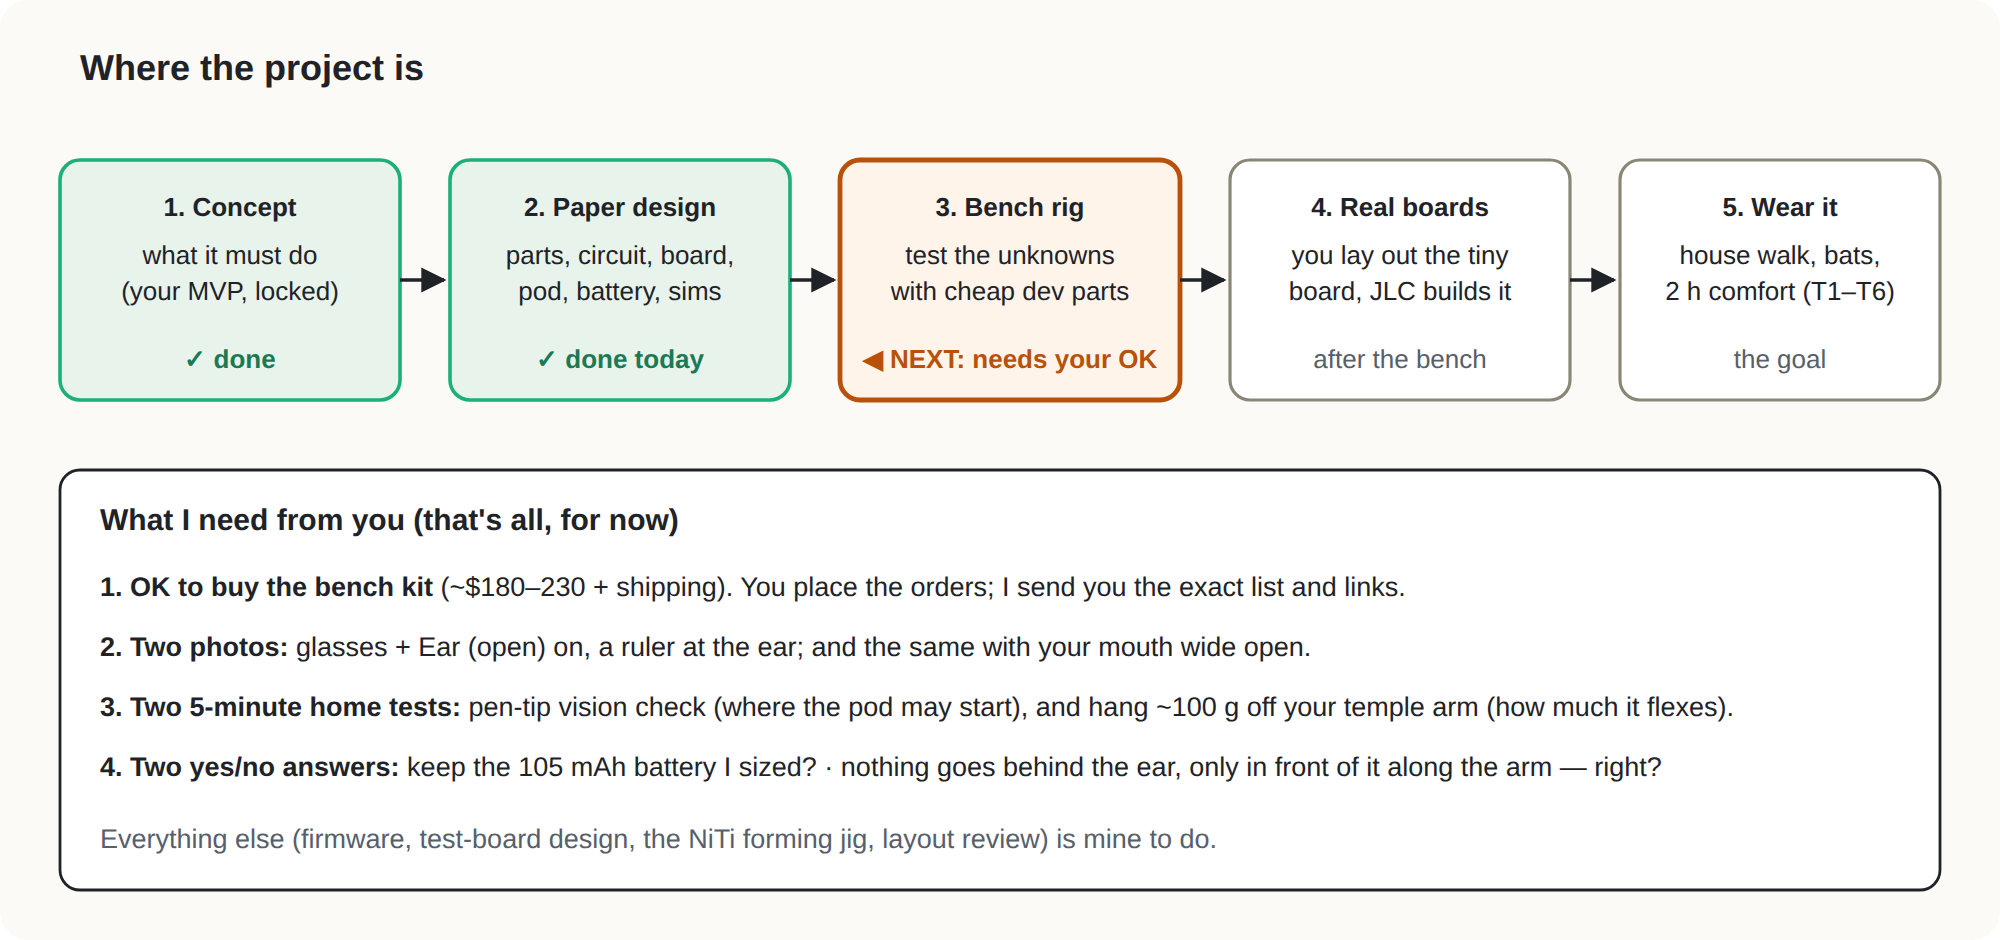
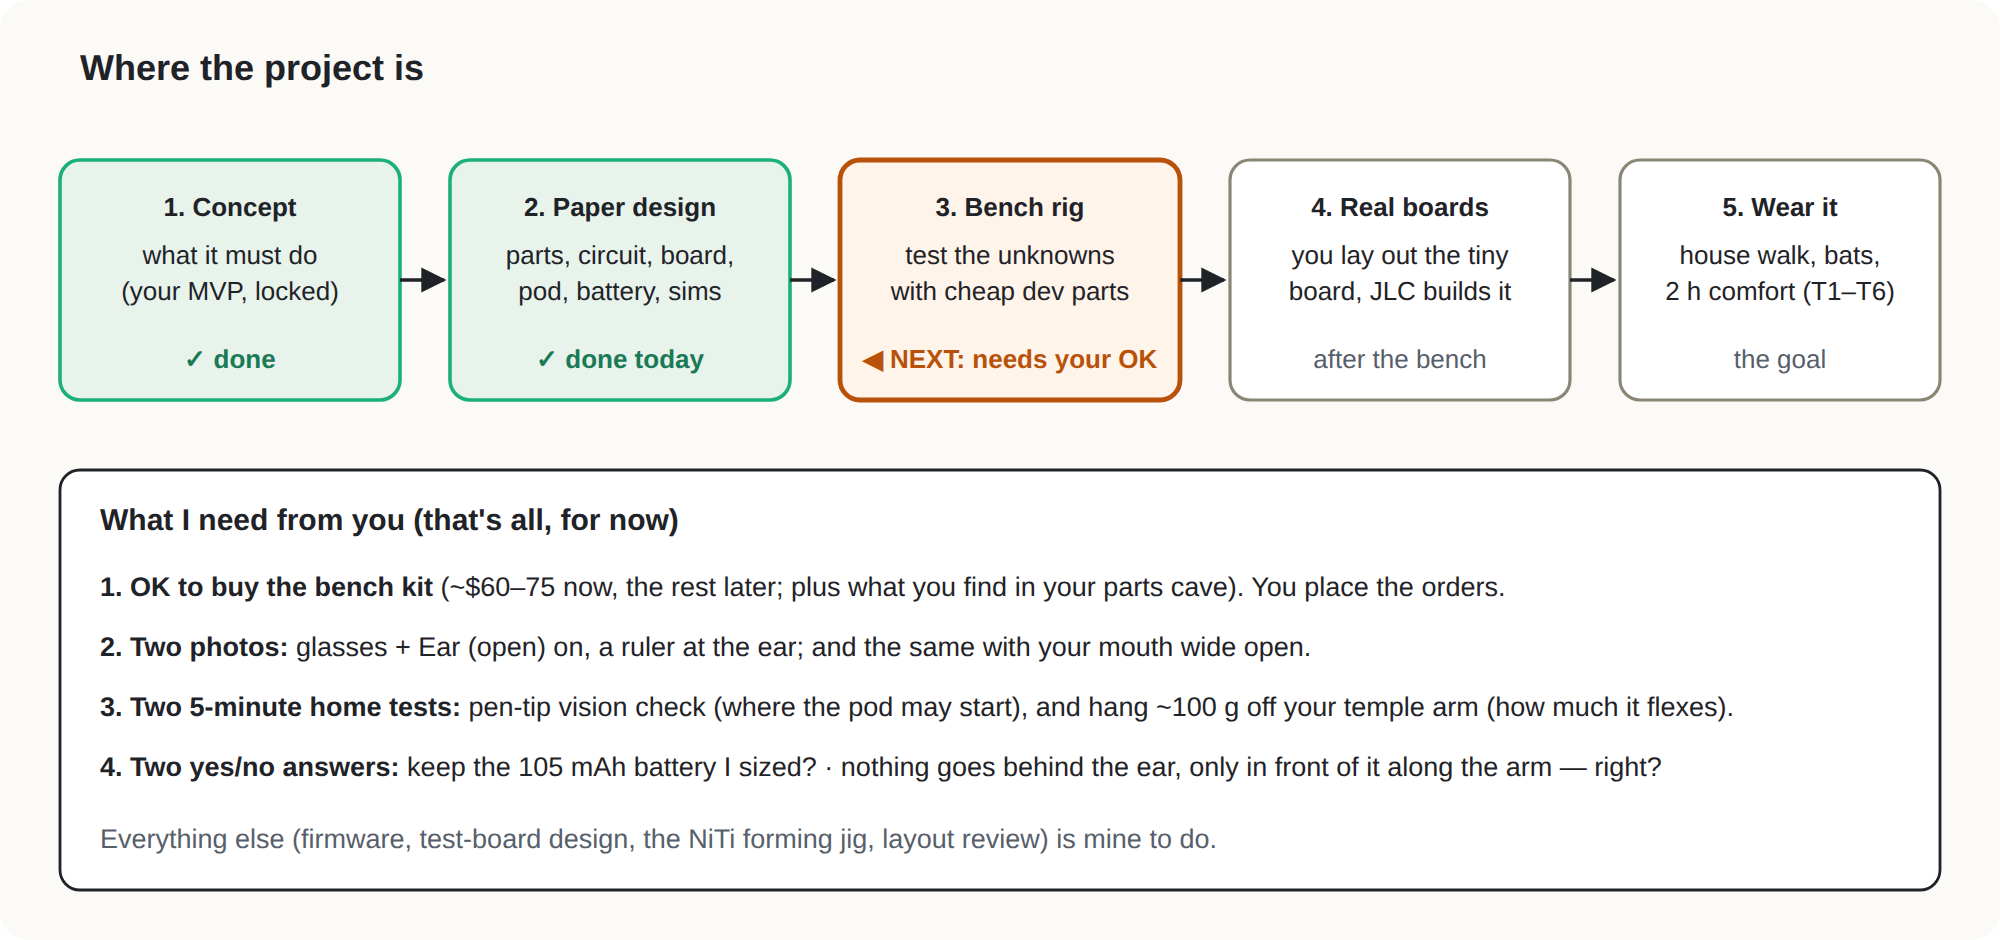
Bench kit restructured: stage A ~$60-75 (exact parts only), owner's parts cave checklist, stage B later
Claude-Session: https://claude.ai/code/session_016uLR3rVesNK6FmgR7vwByF

Changed region(s): [[0.217, 0.617, 0.744, 0.6479]]

diff --git a/docs/design-review-v1.md b/docs/design-review-v1.md
@@ -111,20 +111,32 @@ All the test sounds are synthetic. Real recordings replace them in Phase 1 (C1, 
 
 1. **O7:** spring A (recommended) or B.
 2. **O5:** keep the 105 mAh stacked pod (recommended; 80 mAh would miss 12 h if the chain never sleeps).
-3. **O3: approve the bench shopping list.** Prices come from search results on 2026-09-30 `[Med]`; re-check at checkout.
+3. **O3: approve the bench shopping list.** Revised 2026-09-30 so the owner's own parts come first and the rest is split into stages. Prices come from search results on 2026-09-30 `[Med]`; re-check at checkout.
 
-   | Qty | Item | What it's for | Each | Where |
-   |---|---|---|---|---|
-   | 2 | NUCLEO-U575ZI-Q | ST dev board with our exact MCU and its SMPS: firmware, S1–S3, the E11 whine test | ~$24.08 | [DigiKey](https://www.digikey.com/en/products/detail/stmicroelectronics/nucleo-u575zi-q/15218436) (519 in stock) · [Mouser](https://gr.mouser.com/en/new/stmicroelectronics/stm-nucleo-u575zi-q-board/) |
-   | 3 | RC-BC02 bone exciter, from two sellers | The transducer we designed around; E1 measures its real size, resistance and inductance | ~$4–5.50 | [maker](http://www.digitalaudioamp.com/product/bonetransducerRC-BC02-1.html) · [Alibaba](https://www.alibaba.com/product-detail/RC-BC02-thin-bone-conduction-transducer_62023855763.html) |
-   | 1 | Dayton BCE-1 bone exciter | Known-good reference to compare loudness against | $11.19 | [Dayton](https://www.daytonaudio.com/product/1170/bce-1-22-x-14mm-bone-conducting-exciter) / Parts Express |
-   | 2 | Elecrow SPH0641 mic board | The ultrasonic mic on a breakout, for S1 before our own boards exist | $12.50 | (spec §10) |
-   | 2 | Adafruit #1570 100 mAh LiPo | Bench battery, about our size | $5.95 | [Adafruit](https://www.adafruit.com/product/1570) |
-   | 1 | JLC order: 5 bridge test boards + 5 mic port coupons | S1, S2 | ~$40–60 est. | I design it; you order it |
-   | 2 | HC-SR04 ultrasonic rangefinder | A known 40 kHz test sound, and the T3 left/right test source | ~$2 | any electronics shop |
-   | 1 m each | Superelastic NiTi wire, Ø0.8 and Ø0.9 mm | The tragus arm you chose (O7) | ~$8–15 per metre `[Low]` | medical/hobby wire suppliers; I'll pick listings |
+   **Stage A: buy now (~$60–75).** These are exact parts; nothing in a parts bin substitutes for them.
 
-   **Total ≈ $180–230** plus shipping. Shaping NiTi needs ~500 °C: a butane torch (~$20) is enough if you don't have one. The transducers ship slowest, so they go first.
+   | Qty | Item | Why it must be this part | Each |
+   |---|---|---|---|
+   | 1 | NUCLEO-U575ZI-Q | Our exact chip with its switching regulator: the whine test (E11) and the mic filter need it | ~$24 |
+   | 3 | RC-BC02 bone exciter (two sellers) | The transducer we designed around; its loudness and electrical data are unpublished | ~$4–5.50 |
+   | 1 | Elecrow SPH0641 mic board | The ultrasonic mic; hobby mics stop at ~20 kHz | $12.50 |
+   | 1 m | Superelastic NiTi wire, Ø0.85 mm, Af ≤ 0 °C | Your arm choice | ~$8–15 `[Low]` |
+
+   **From your cave (free if found):**
+
+   | Look for | Replaces | Notes |
+   |---|---|---|
+   | Any small single-cell LiPo + a USB LiPo charger module (e.g. TP4056) | Adafruit cells ($12) | Skip any cell that's puffy or dented |
+   | HC-SR04 sensor, a 40 kHz ultrasonic transducer, an ultrasonic pest repeller, or a dog whistle | HC-SR04 ($4) | Anything that makes ultrasound on demand |
+   | Old bone-conduction headphones (e.g. AfterShokz/Shokz) | Dayton BCE-1 reference ($11) | We only need a known-good exciter to compare loudness against |
+   | A small audio amp module (PAM8403 class-D, any headphone amp) | The JLC bridge board, for now ($40–60) | Enough to measure loudness on your skin (E1). The real bridge only matters later, for noise and distortion (S2) |
+   | Multimeter, soldering iron, jumper wires, breadboard | – | Needed regardless |
+   | **An oscilloscope** (≥ 50 MHz), if you have one | – | Checks the mic clock (S1). Without one I'll find another way |
+   | Kitchen scale, butane torch | – | Pad force; NiTi shaping |
+
+   **Stage B: later, only once stage A has answered loudness and whine (~$60–90):** a second Nucleo and mic for stereo, and the JLC bridge-and-coupon order. The JLC order can ride along with the first real-board order, so it costs one shipping, not two.
+
+   **Old plan: ≈ $180–230 all at once. New: ≈ $60–75 now**, the rest later and possibly less.
 4. **O4:** confirm the reading of §1.2.4: cell along the arm, in front of the ear, nothing behind it.
 5. **Photos and quick tests you can do at home:**
    - ruler photo and mouth-open photo (E9);
